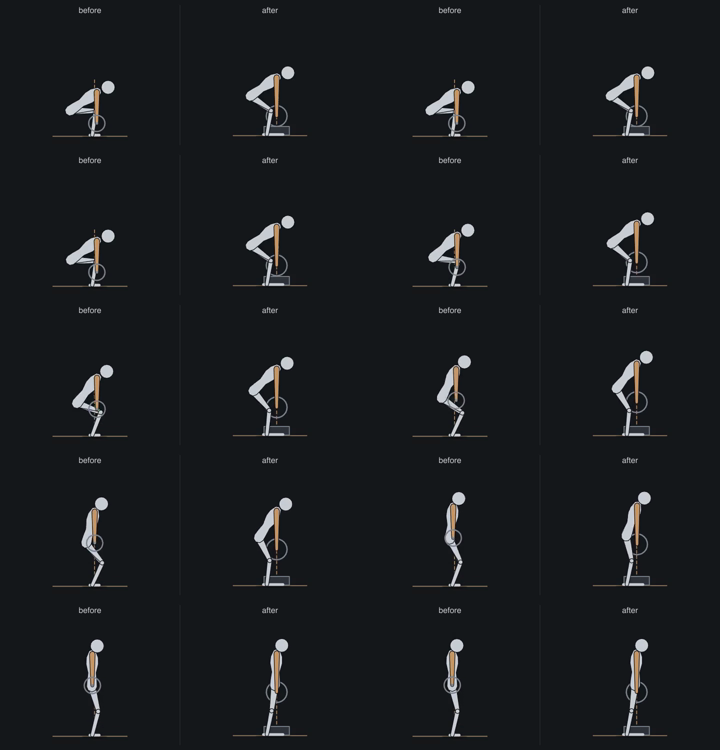
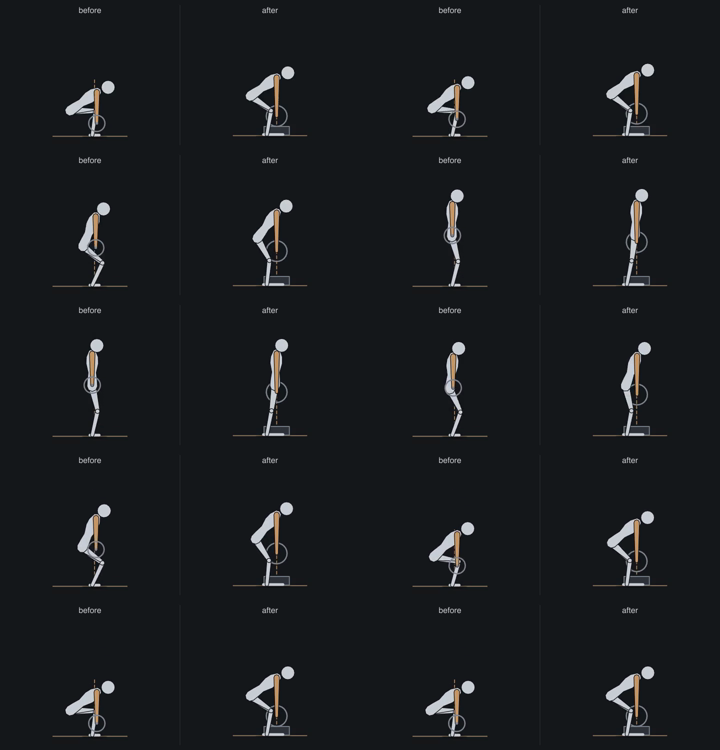
Figure strips span the whole cycle (they covered only the first 2 s); runbook command fixed

diff --git a/dev/figure-review-kit/README.md b/dev/figure-review-kit/README.md
@@ -32,8 +32,11 @@ git show <rev>:next-app/src/lib/figures/rig.ts > /tmp/oldrig.ts && node ../dev/a
 - `angles.md`: joint angles measured from the skeleton (included hip, knee and elbow angles; trunk and shin
   from vertical) at start, 25%, 50% and 75%, plus min..max.
 - Contact sheets: frames through one cycle, the reduced-motion frame, the 144 px tile and the thumbnail.
-- `render-motion.mjs`: before | after clips (mp4 + gif) at 30 fps. Make frame strips for agents with
-  `ffmpeg -i x.mp4 -vf "select='not(mod(n\,6))',scale=360:-1,tile=2x5" -frames:v 1 strip-x.png`.
+- `render-motion.mjs`: before | after clips (mp4 + gif) at 30 fps. Frame strips for agents must span the WHOLE
+  cycle: a fixed every-6th-frame step covers only the first 2 s, and through rescore 3 (2026-10-29) the
+  reviewers judged the wall walk and squat from their opening seconds. Spread 10 frames evenly:
+  `n=$(ffprobe -v error -count_frames -select_streams v:0 -show_entries stream=nb_read_frames -of csv=p=0 x.mp4);
+  ffmpeg -i x.mp4 -vf "select='not(mod(n\,$(( (n+9)/10 ))))',scale=360:-1,tile=2x5" -frames:v 1 strip-x.png`.
 
 ## The loop
 1. Refresh the evidence (above).

diff --git a/dev/active/figure-animation/73-r3-handbalance.md b/dev/active/figure-animation/73-r3-handbalance.md
@@ -23,3 +23,8 @@ At >= 9: 12 of 15. Under 9: fingerraise 8, hswalk 8, wallwalk 8.
 
 ## Rules
 No safety rule in rig.ts / CLAUDE.md is in tension with these figures.
+
+## Pass 3 (hswalk, wallwalk, fingerraise)
+- hswalk 9: strip-hswalk now shows a clear scissor V on 8 of 10 "after" frames, hip drift 6 px, elbow > 163. Short of 10: sheet-07 still shows the old near-closed tile (sheet not regenerated, or the tile phase is not at mid-step).
+- wallwalk 8: the lane reports trunk 52 at 25% and a staircase, but strip-wallwalk.png as read looks unchanged from pass 2: first ~6 of 10 sampled frames are the same long plank (trunk ~70), pike only in the last 2 rows. Cannot confirm the change; hand walk-in is 9 and 7 px per step (under the 15 ask, the lane says it trades off against trunk). [H] Re-render strip-wallwalk and check frames 2-6 differ by >= 10 px in foot height; if so, 9.
+- fingerraise 8: 1.5 px shoulder lean is below what a 144 px tile can show (and 56x40 hides it). Geometry cap; accept at 8.
